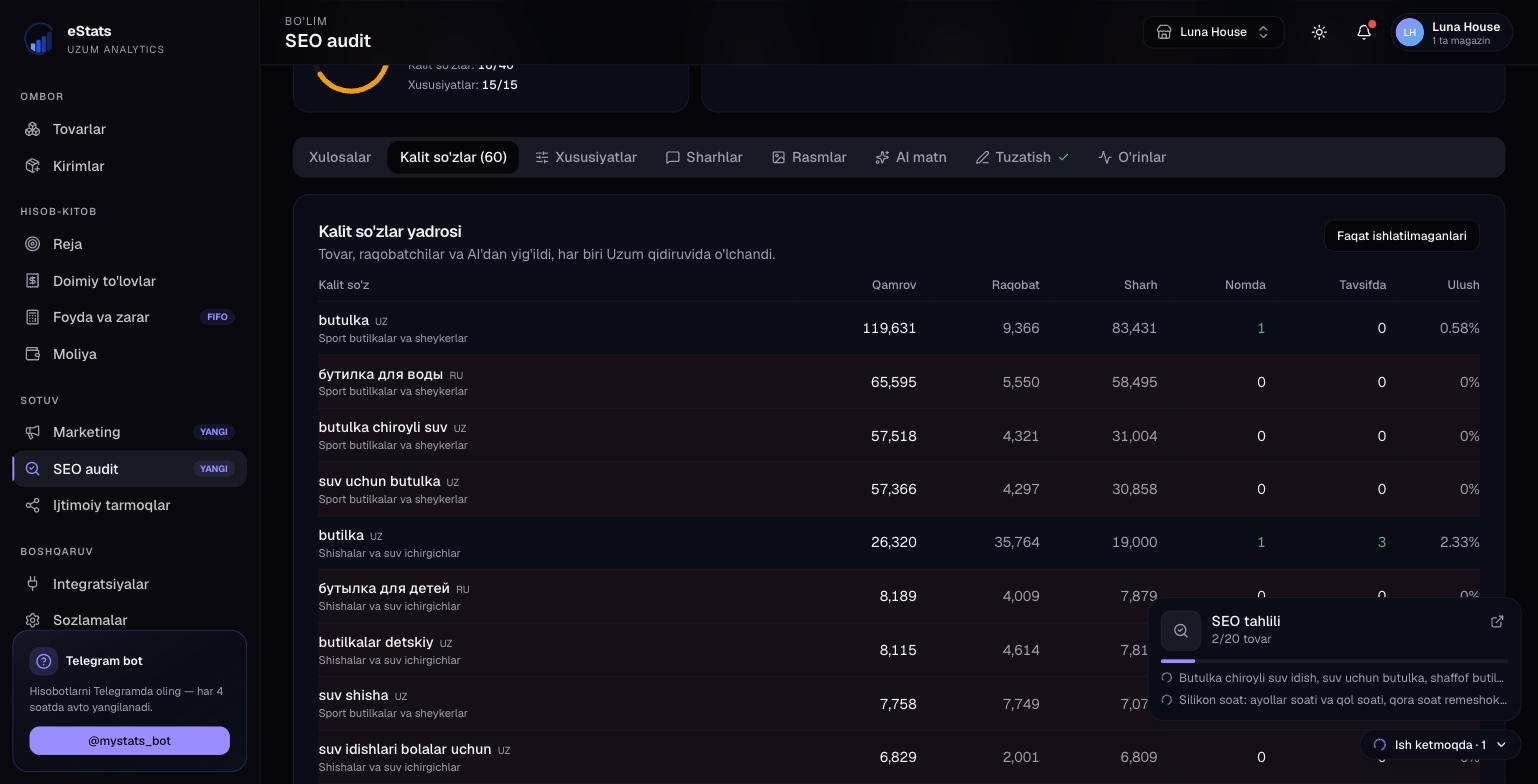
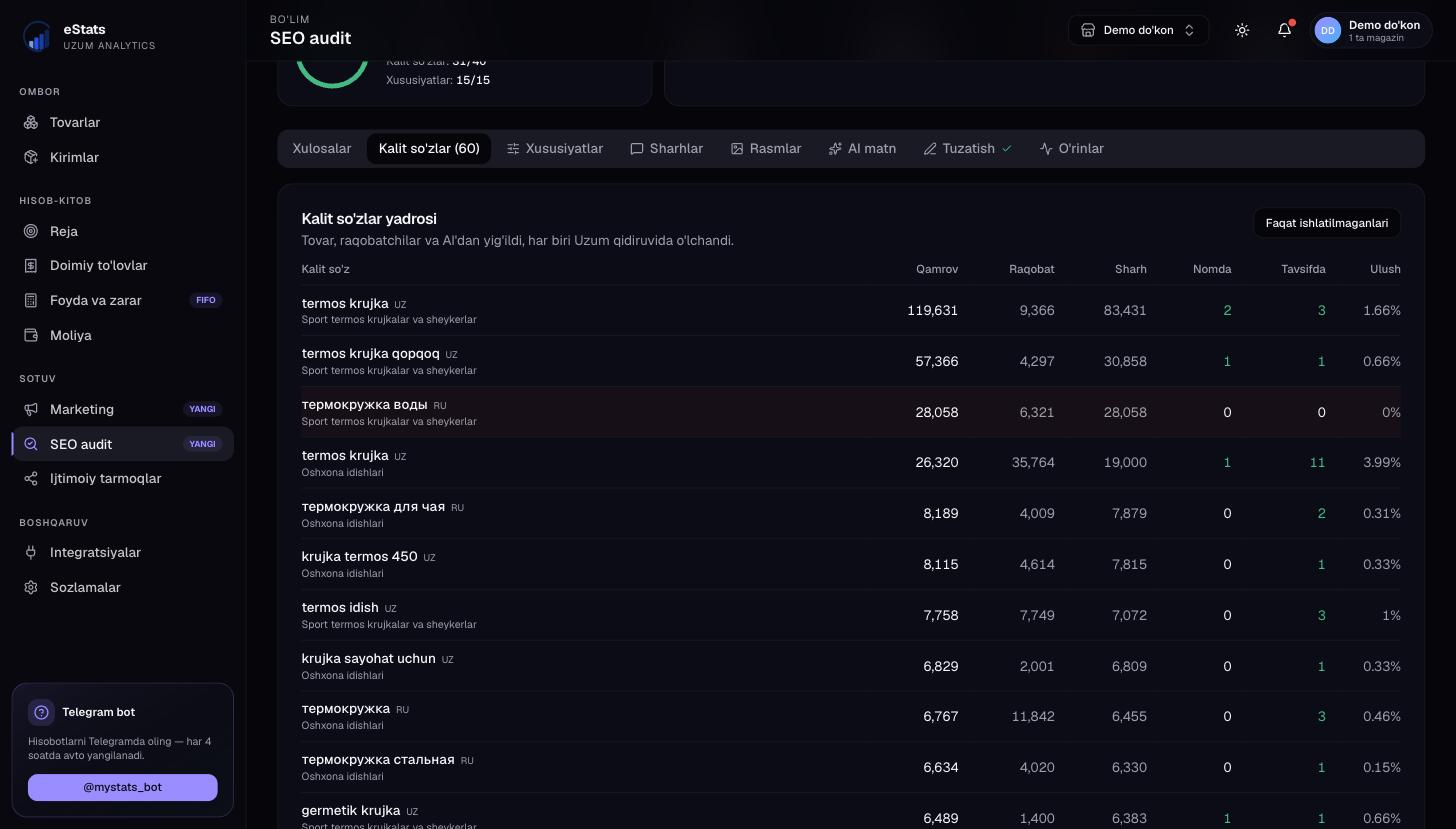
Landing skrinshotlari demo ma'lumot bilan
Ilgarigi rasmlarda haqiqiy do'kon nomi, oylik savdo, sof foyda,
marja, obunachilar soni va sotilayotgan tovarlar ko'rinib turardi.
Landing ochiq sahifa — bularning hammasi raqobatchiga tekin
ma'lumot bo'lardi.

Endi rasmlarda «Demo do'kon», boshqa raqamlar va boshqa nishadagi
tovarlar. Ko'rsatkichlarning tuzilishi va ekranlar o'zgarmagan —
mahsulot qanday ishlashi bir xil ko'rinadi.

Hero rasmi ham yangilandi: unda endi «Tillar bo'yicha» bloki bor,
o'zbekcha 75/85 va ruscha 41/85 — kuchsiz til ajratib ko'rsatilgan.

diff --git a/src/features/landing/components/hero-section.tsx b/src/features/landing/components/hero-section.tsx
@@ -71,29 +71,29 @@ export function HeroSection() {
         <div className="relative">
           <BrowserFrame
             src="/shots/seo-audit.jpg"
-            alt="eStats SEO audit: kartochka bali, kalit so'zlar yadrosi va xulosalar"
+            alt="eStats SEO audit: kartochka bali va tillar bo'yicha alohida o'lchov"
             url="estats.uz/seo"
             priority
             sizes="(max-width: 1024px) 100vw, 1100px"
           />
 
           <FloatCard
-            className="-left-3 top-[22%] hidden sm:flex lg:-left-10"
+            className="-left-3 top-[26%] hidden sm:flex lg:-left-10"
             label="SEO BALL"
-            value="66"
-            delta="+6"
+            value="81"
+            delta="+15"
           />
           <FloatCard
-            className="-right-3 top-[8%] hidden sm:flex lg:-right-8"
+            className="-right-3 top-[10%] hidden sm:flex lg:-right-8"
             label="QO'LDAN KETYAPTI"
-            value="302 268"
+            value="96 880"
             tone="bad"
           />
           <FloatCard
-            className="-right-3 bottom-[12%] hidden md:flex lg:-right-12"
-            label="SOF FOYDA · 30 KUN"
-            value="406 473"
-            delta="+18%"
+            className="-right-3 bottom-[14%] hidden md:flex lg:-right-12"
+            label="RUSCHA KARTOCHKA"
+            value="41"
+            suffix="/85"
           />
         </div>
       </div>
@@ -105,12 +105,14 @@ function FloatCard({
   label,
   value,
   delta,
+  suffix,
   tone,
   className,
 }: {
   label: string;
   value: string;
   delta?: string;
+  suffix?: string;
   tone?: "bad";
   className?: string;
 }) {
@@ -127,6 +129,7 @@ function FloatCard({
         >
           {value}
         </span>
+        {suffix ? <span className="text-xs text-muted-foreground">{suffix}</span> : null}
         {delta ? (
           <span className="flex items-center gap-0.5 text-xs font-medium text-success">
             <TrendingUp className="h-3 w-3" />

diff --git a/src/features/landing/components/questions-section.tsx b/src/features/landing/components/questions-section.tsx
@@ -25,7 +25,7 @@ const QUESTIONS: Question[] = [
       "necha ball berayotgani ochiq ko'rinadi.",
     points: [
       "Nom, tavsif, kalit so'zlar va xususiyatlar — alohida ball",
-      "O'zbekcha va ruscha kartochka mustaqil o'lchanadi",
+      "O'zbekcha va ruscha kartochka MUSTAQIL o'lchanadi va o'z bali bor",
       "Har tahlil tarixda qoladi, oldingisi bilan solishtiriladi",
       "Xulosa emas, aniq ko'rsatma: nimani qo'shish kerak",
     ],
